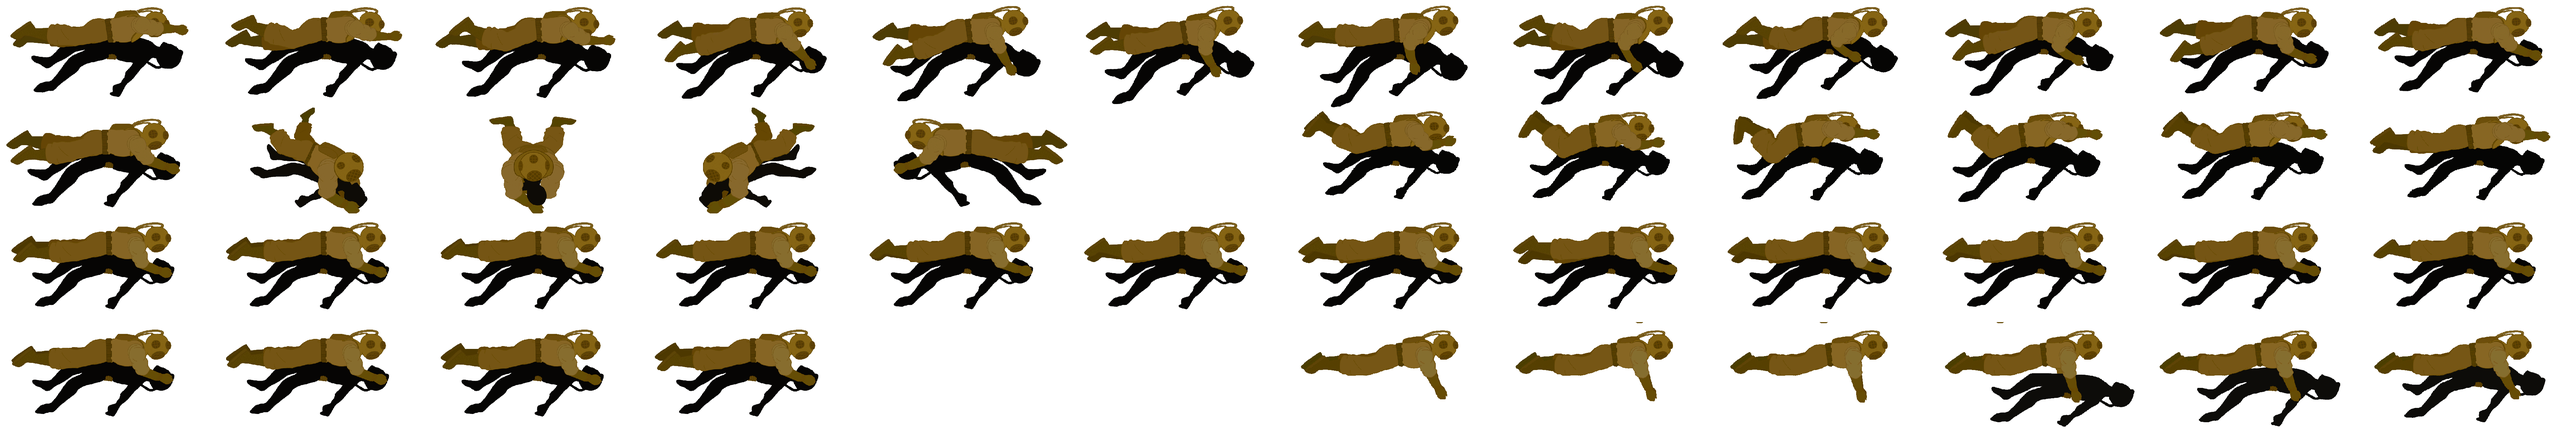
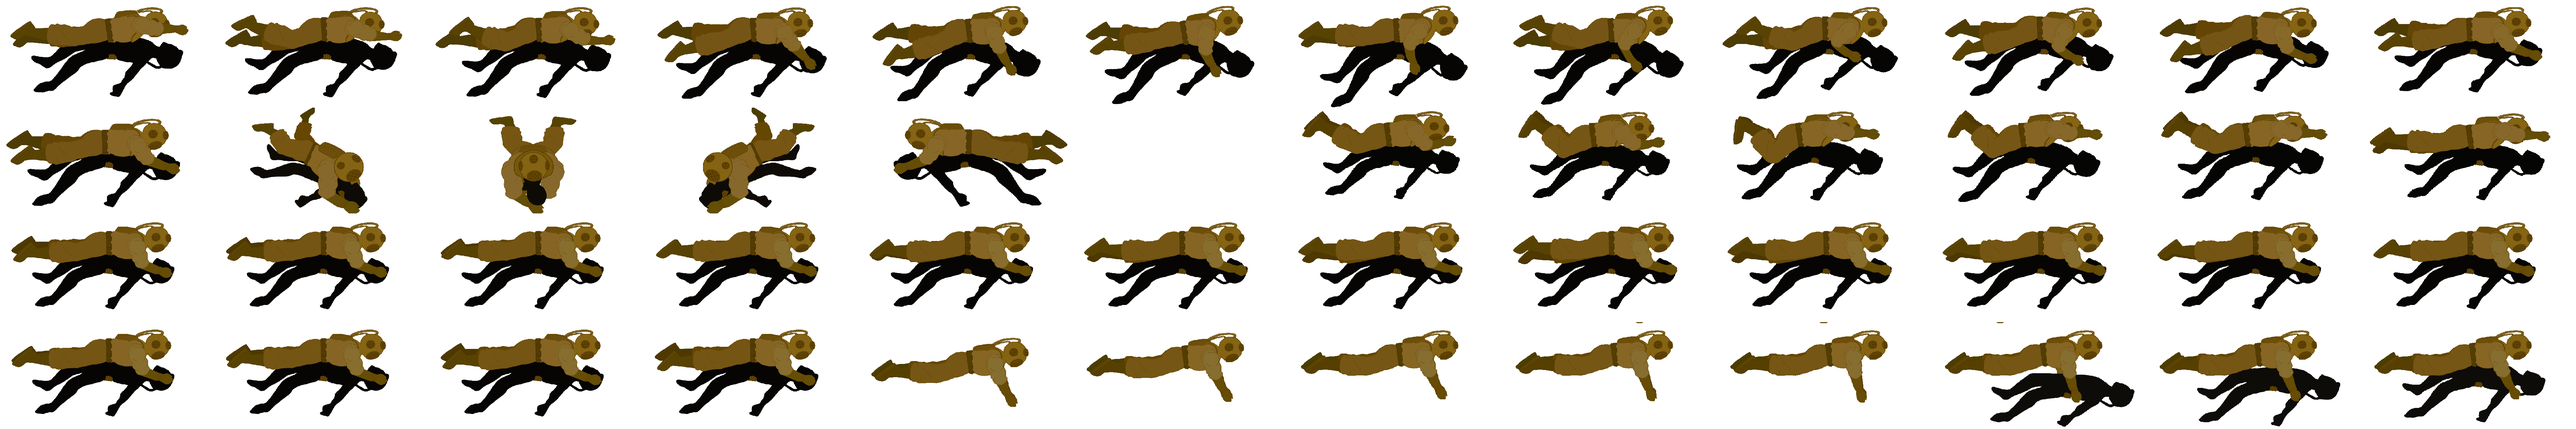
Fixed Animation bugs

Changed region(s): [[0.3125, 0.7708, 0.5, 0.925]]

diff --git a/core/src/com/xstudios/salvage/game/models/DiverModel.java b/core/src/com/xstudios/salvage/game/models/DiverModel.java
@@ -712,7 +712,15 @@ public class DiverModel extends GameObject {
     float targetAngle = 0;
 
     public void applyForce() {
-        targetAngle = (isSwimming()) ? targetAngleX + ((targetAngleX == 0) ? targetAngleY : -targetAngleY) : getDynamicAngle();
+        if (isLatching()) {
+            if (touchedWall != null)
+                targetAngle = touchedWall.getTentacleRotation() + 270;
+            else
+                targetAngle = 0;
+        } else {
+            targetAngle = (isSwimming()) ? targetAngleX + ((targetAngleX == 0) ? targetAngleY : -targetAngleY) : getDynamicAngle();
+
+        }
 
         targetAngle += (targetAngle < 0) ? 360f : 0f;
         float dist = targetAngle - getDynamicAngle();
@@ -731,7 +739,7 @@ public class DiverModel extends GameObject {
         }
 
         if (dist > 0) {
-            angle *= (isLatching()) ? 3 : 1;
+            angle *= (isLatching()) ? 5 : 1;
             body.setAngularVelocity(angle);
         } else if (dist < 0) {
             body.setAngularVelocity(-angle);
@@ -1045,6 +1053,12 @@ public class DiverModel extends GameObject {
 
     @Override
     public void draw(GameCanvas canvas) {
+        if (pickupFrame == 5 && dead_body != null) {
+
+            dead_body.setCarried(true);
+            dead_body.setActive(false);
+        }
+
 
         tick++;
         float effect = faceRight ? 1.0f : -1.0f;
@@ -1052,15 +1066,14 @@ public class DiverModel extends GameObject {
         float angle = getAngle();
         if (texture != null) {
 
-            if (pickupFrame < 5) {
+            if (pickupFrame < 7) {
                 if (tick % 3 == 0) {
                     pickupFrame++;
                 }
-                diverSprites.get(diverState).setFrame(pickupFrame + 38);
+                diverSprites.get(diverState).setFrame(pickupFrame + 40);
                 canvas.draw(diverSprites.get(diverState), Color.WHITE, origin.x, origin.y, getX() * drawScale.x, getY() * drawScale.y, angle, effect * 0.25f, flip * 0.25f);
             } else {
                 if (isIdling()) {
-
                     if (tick % 4 == 0) {
                         idleFrame++;
                     }

diff --git a/core/src/com/xstudios/salvage/game/GameController.java b/core/src/com/xstudios/salvage/game/GameController.java
@@ -592,7 +592,7 @@ public class GameController implements Screen, ContactListener {
         // manage items/dead body
         level.getDiver().setPickUpOrDrop(input.getOrDropObject());
         level.getDiver().setItem();
-        level.getDeadBody().setCarried(level.getDiver().hasBody());
+
 
         if (!level.getDiver().getStunned()) {
             // decrease oxygen from movement
@@ -753,7 +753,7 @@ public class GameController implements Screen, ContactListener {
             level.addObject(go);
         }
 
-        if (level.getDiver().isBodyContact()) {
+        if (level.getDiver().getDeadBody() != null && level.getDiver().getDeadBody().isCarried()) {
             level.getDeadBody().setActive(false);
         }
 

diff --git a/core/src/com/xstudios/salvage/game/models/DeadBodyModel.java b/core/src/com/xstudios/salvage/game/models/DeadBodyModel.java
@@ -76,9 +76,6 @@ public class DeadBodyModel extends DiverObjectModel {
             if (!carried) {
                 canvas.draw(texture, Color.WHITE, origin.x, origin.y, getX() * drawScale.x, getY() * drawScale.y, getAngle(), 0.5f, 0.5f);
             }
-            if (isTouched) {
-                canvas.drawText("Press q", GameController.displayFont, (getX() - getWidth() * 1.25f) * drawScale.x, (getY() + getHeight() * 1.5f) * drawScale.y);
-            }
         }
     }
 

diff --git a/core/src/com/xstudios/salvage/game/levels/LevelBuilder.java b/core/src/com/xstudios/salvage/game/levels/LevelBuilder.java
@@ -667,6 +667,7 @@ public class LevelBuilder {
                 dead_body.setName("dead_body");
                 dead_body.setGravityScale(0f);
                 dead_body.setSensor(true);
+                this.dead_body = dead_body;
                 level.addObject(dead_body);
             } else if (go instanceof ItemModel) {
                 ItemModel key = (ItemModel) go;
